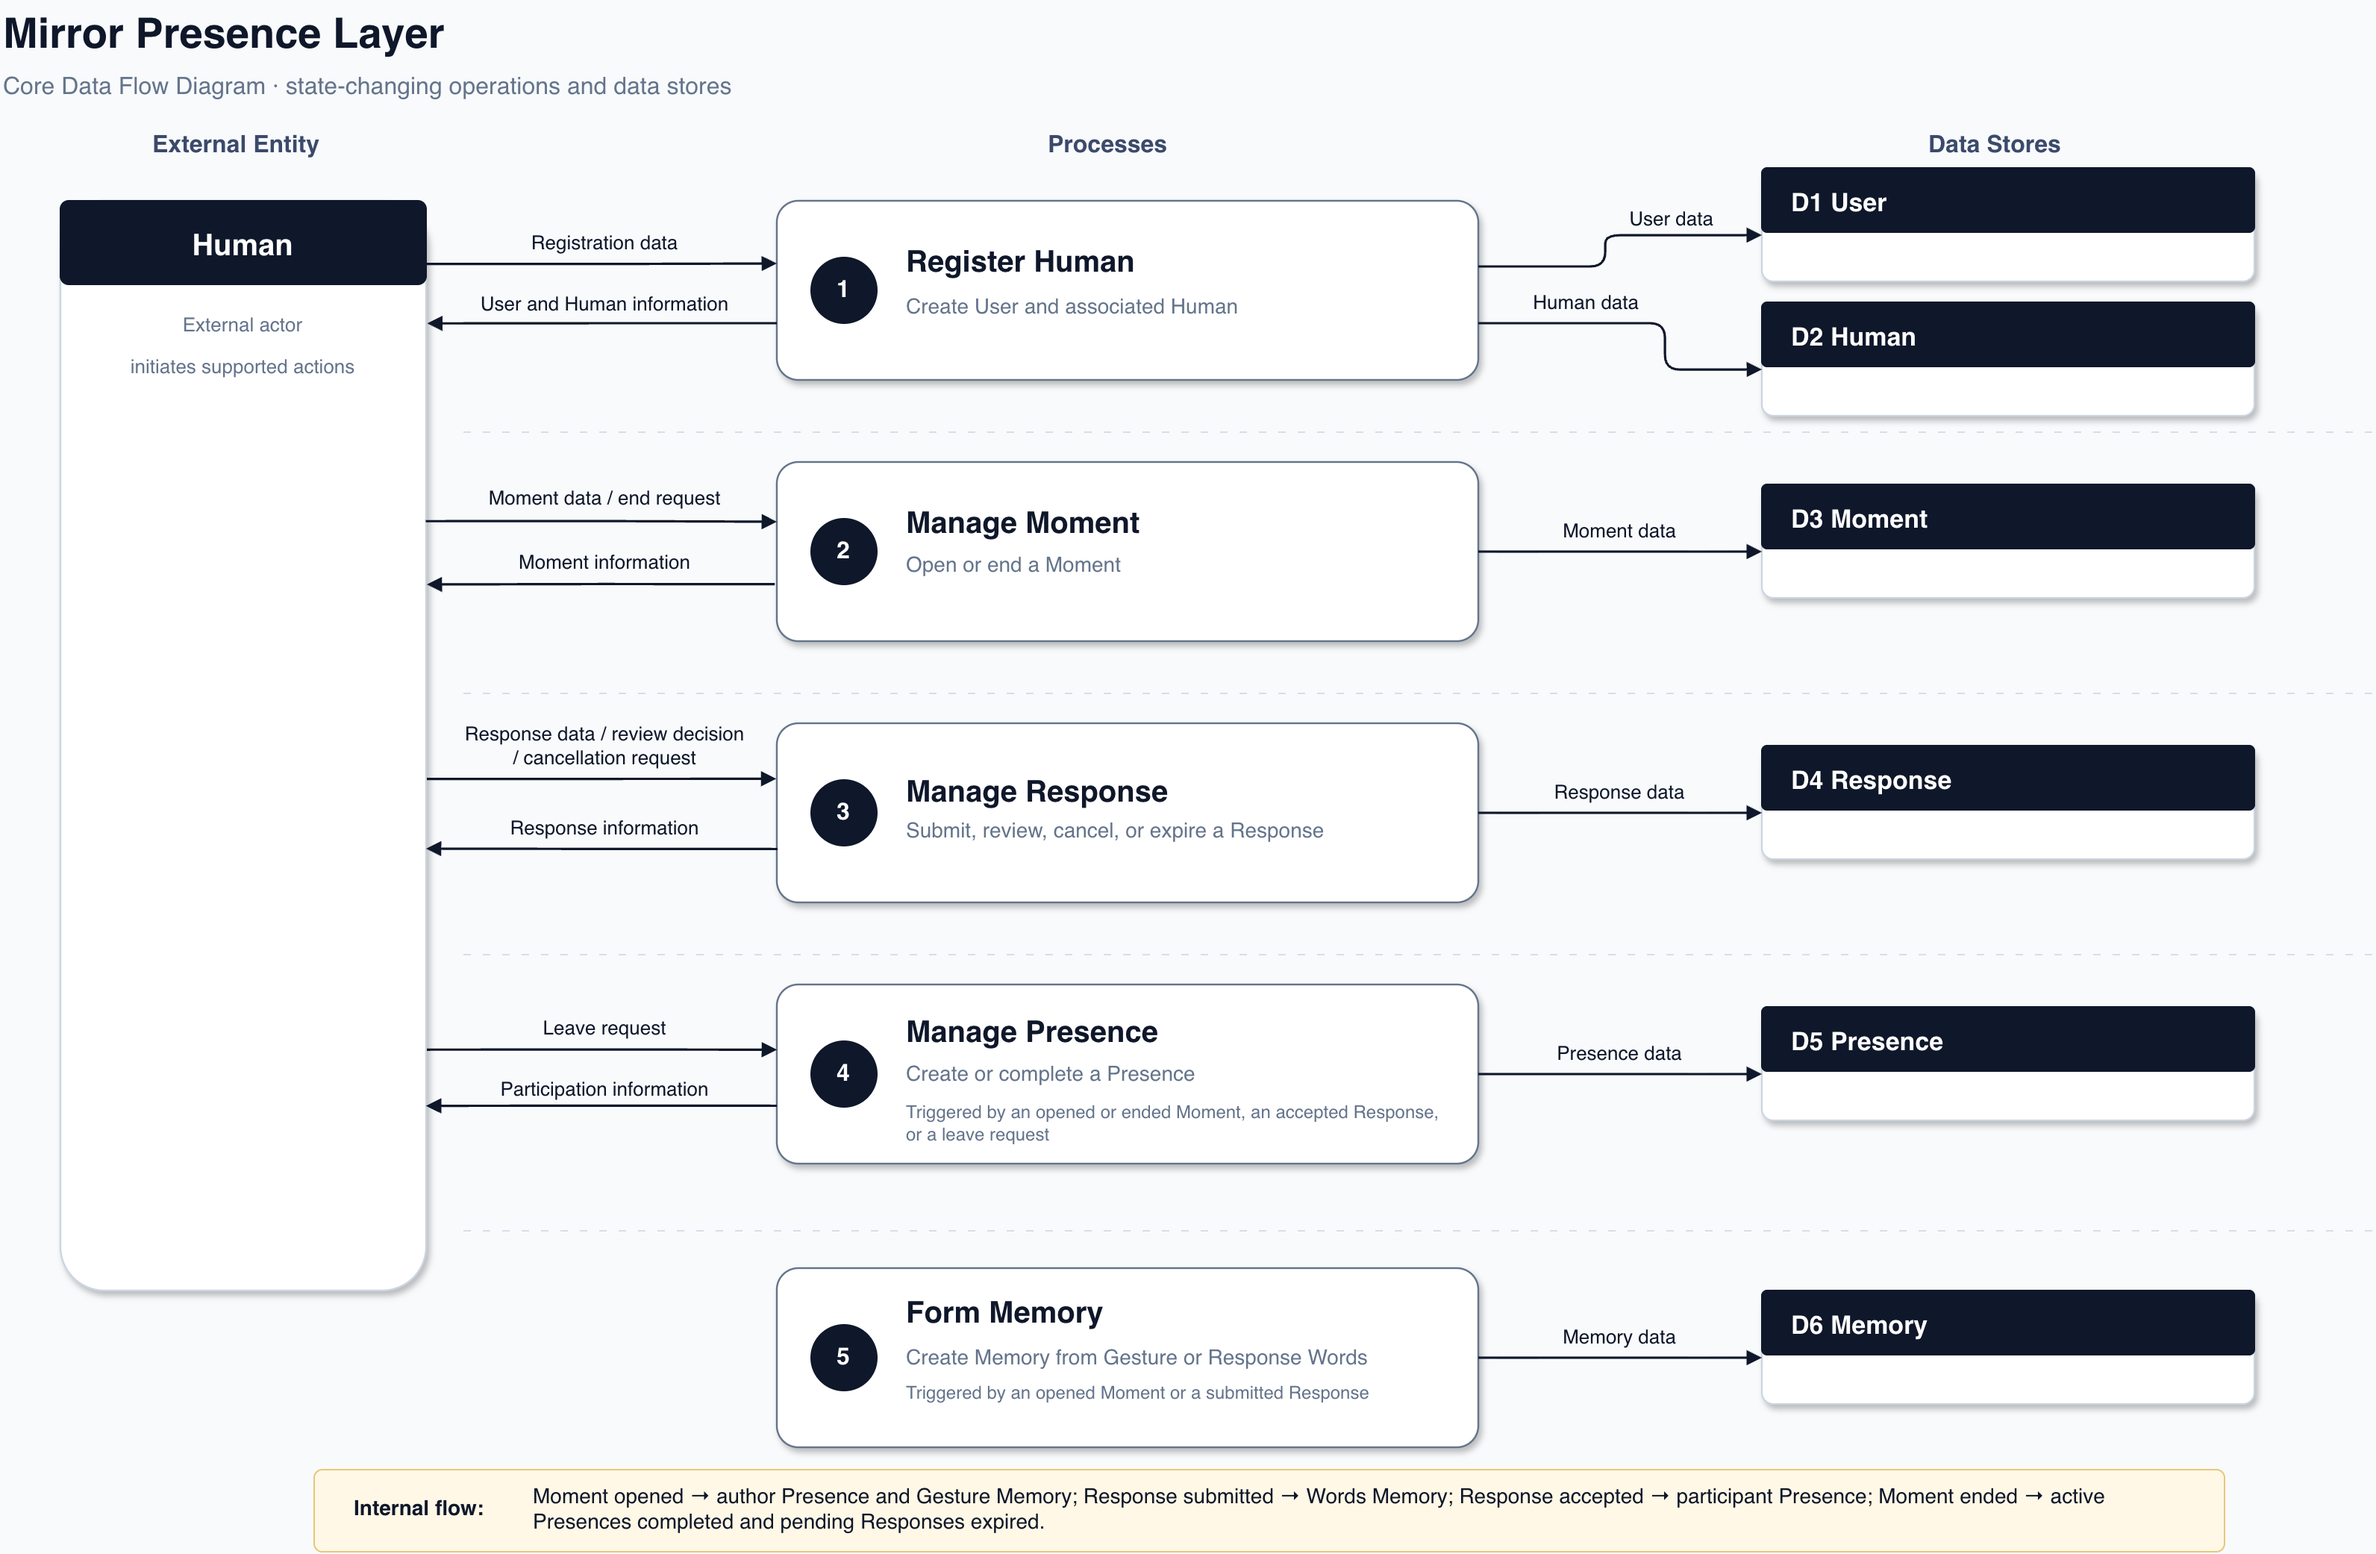
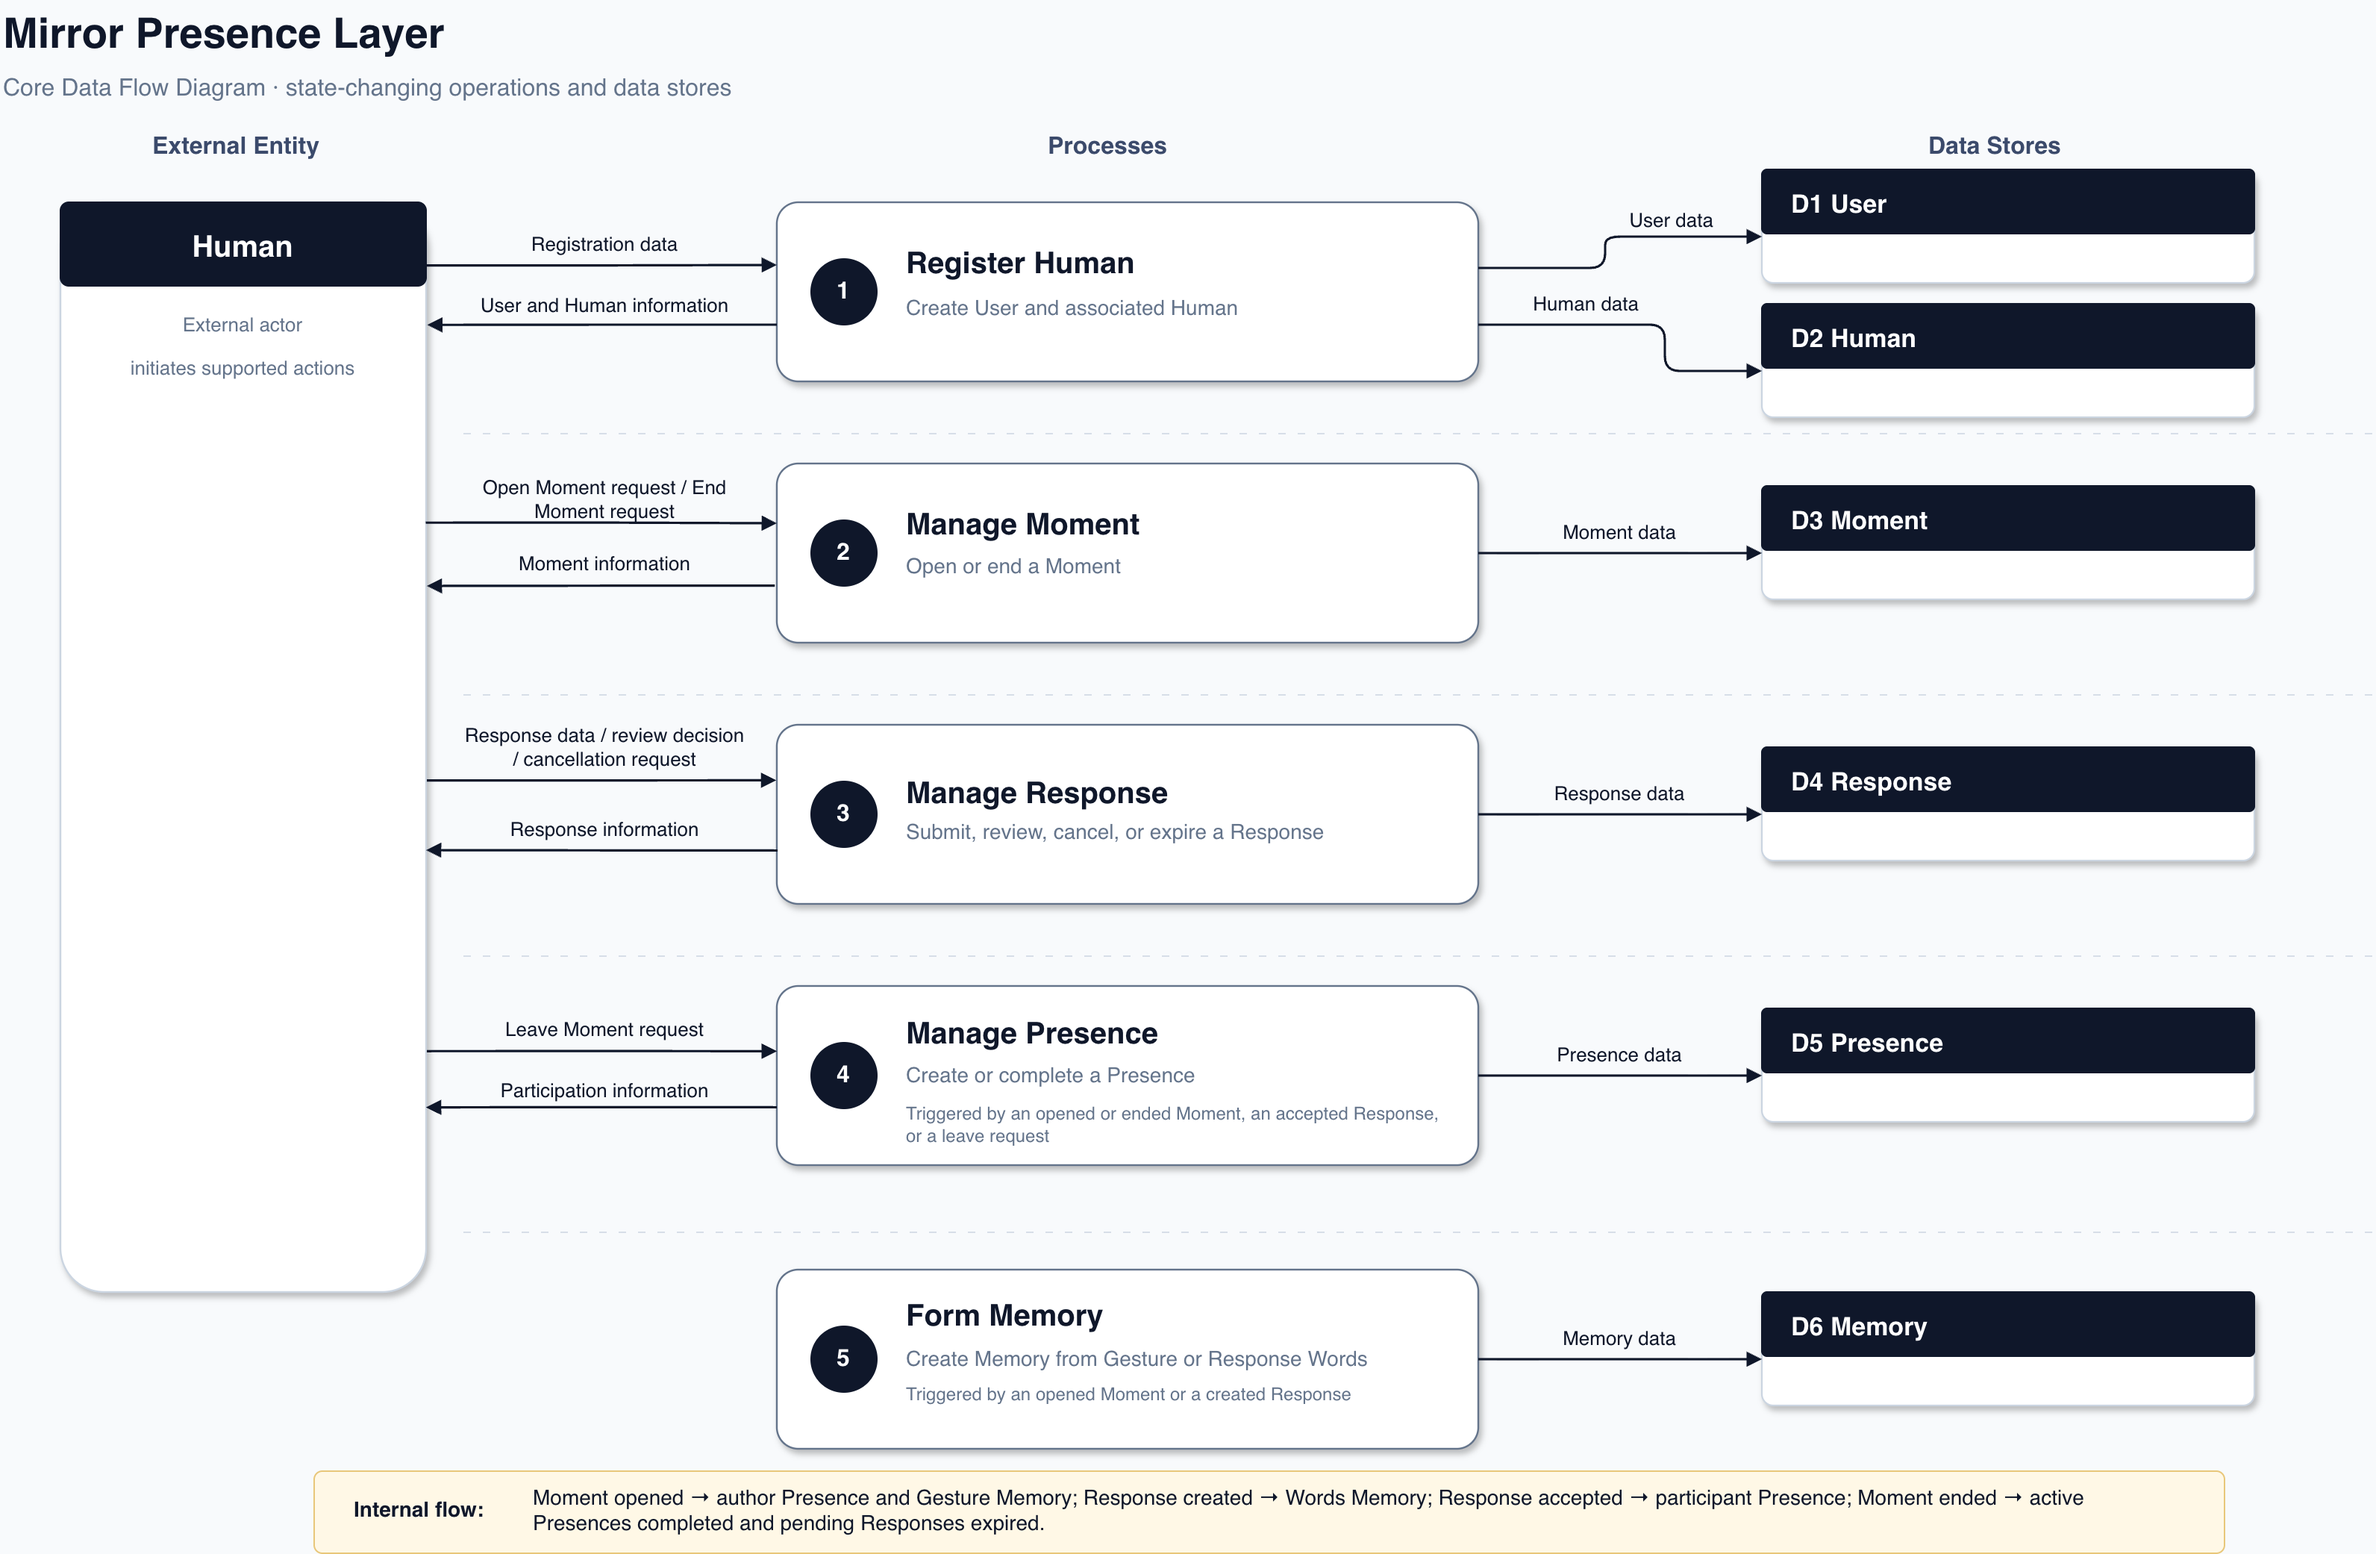
docs: refine Moment and Response lifecycle rules

diff --git a/docs/core-workflows.md b/docs/core-workflows.md
@@ -9,14 +9,16 @@ This document describes the state-changing operations supported by the Mirror Pr
 
 ## Opening a Moment
 
-1. A Human opens a Moment with a Gesture and a media stream.
+1. A Human opens a video Moment with a Gesture.
 2. The system creates the Moment with the `active` status.
 3. An active Presence is created for the Human with the `author` role.
 
 ## Sending a Response
 
-1. A Human sends Words in response to another Human’s active Moment.
-2. The system creates a Response with the `pending` status.
+1. A Human submits Words in response to another Human’s active Moment.
+2. The system verifies that the Human has no other Response with the `pending` status.
+3. If no pending Response exists, the system creates a Response with the `pending` status.
+4. If a pending Response already exists, the new Response is not created.
 
 ## Reviewing a Response
 
@@ -40,9 +42,10 @@ This document describes the state-changing operations supported by the Mirror Pr
 1. The author ends their active Moment.
 2. The system records the ending time and changes the Moment status to `completed`.
 3. All active Presences associated with the Moment are completed and receive a leaving time.
-4. The completed Moment no longer accepts new Responses.
+4. All pending Responses associated with the Moment are changed to `expired`.
+5. The completed Moment no longer accepts new Responses.
 
 ## Forming Memory
 
-1. When a Human opens a Moment or submits a Response, the system creates a Memory record containing a snapshot of the Moment’s Gesture or the Response’s Words.
+1. When a Human opens a Moment or successfully submits a Response, the system creates a Memory record containing a snapshot of the Moment’s Gesture or the Response’s Words.
 2. The record remains linked to the Human and the Moment regardless of the later status of the Response.

diff --git a/docs/domain-overview.md b/docs/domain-overview.md
@@ -30,7 +30,7 @@ Each Moment contains a Gesture — its only written form — which gives the Mom
 
 ### Response
 
-A Response is a Human’s reply to another Human’s Moment.
+A Response is a Human’s reply to another Human’s Moment. Its Words express how the Human approaches the Moment. A Human may have no more than one Response with the `pending` status at a time. If the author accepts the Response, the responding Human may enter the Moment as a participant.
 
 Its Words express how the Human approaches the Moment. If the author accepts the Response, the responding Human may enter the Moment as a participant.
 
